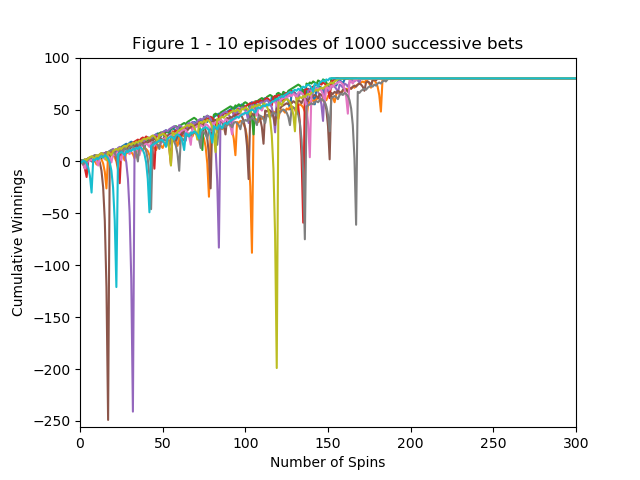
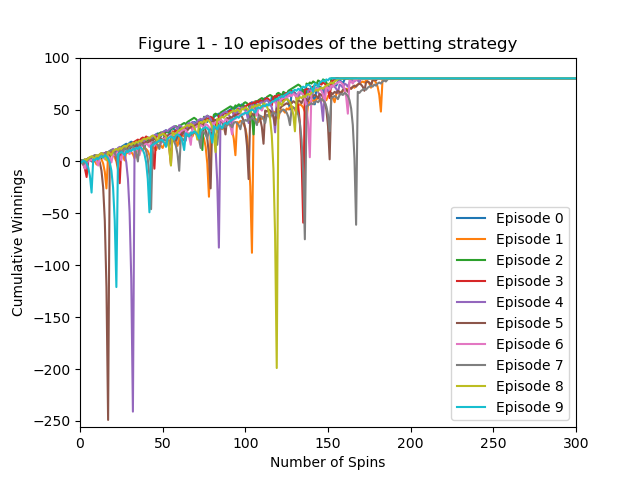
First draft of code (added = Generates figure 2,3)

Changed region(s): [[0.7188, 0.4375, 0.9062, 0.875], [0.1875, 0.0625, 0.8125, 0.125], [0.7188, 0.8438, 0.75, 0.875]]

diff --git a/martingale/martingale.py b/martingale/martingale.py
@@ -71,11 +71,14 @@ def test_code():
     #betting_strategy(win_prob)
     print(win_prob)
     figure1(win_prob)
+    figure3(win_prob)
+
   		  	   		  		 			  		 			     			  	 
 
 def betting_strategy(win_prob):
     episode_winnings = 0
-    episode_array = np.full((1000),80)
+    #Structuring the NumPy Array hint:: Each episode consists of 1000 spins plus the initial value of 0 in the first column (1001 columns in total)
+    episode_array = np.full((1001),80)
     #print(episode_array, episode_array.shape, episode_array.size)
     bet_number = 0
 
@@ -84,8 +87,7 @@ def betting_strategy(win_prob):
         won = False
         bet_amount = 1
         while not won:
-            #wager on black?
-            if bet_number >= 1000:
+            if bet_number >= 1001:
                 print(episode_array)
                 return episode_array
             episode_array[bet_number] = episode_winnings
@@ -107,17 +109,51 @@ def betting_strategy(win_prob):
     #if episode_winnings == 80:
         #print(episode_array[999], episode_array.shape , episode_array.size)
 
-
 def figure1(win_prob):
     for i in range(10):
         cur_episode = betting_strategy(win_prob)
-        plt.plot(cur_episode)
+        plt.plot(cur_episode, label='Episode %s' % i)
 
-    plt.title("Figure 1 - 10 episodes of 1000 successive bets")
-    plt.axis([0, 300, -256, 100])
-    plt.xlabel("Number of Spins")
-    plt.ylabel("Cumulative Winnings")
-    plt.savefig("figure1.png")
+    plotting_utility_function("Figure 1 - 10 episodes of the betting strategy", [0, 300, -256, 100], "Number of Spins", "Cumulative Winnings", "figure1.png")
+
+def figure2(win_prob):
+    # Rows is number of episodes; columns is number of spins per episode (1000) + initial value in 1st column
+    cumulative_array = np.zeros((1000,1001))
+
+    for i in range(1000):
+        cur_episode = betting_strategy(win_prob)
+        cumulative_array[i] = cur_episode
+
+    mean_array = np.mean(cumulative_array, axis = 0)
+    std_dev_array = np.std(cumulative_array, axis = 0)
+    mean_plus_std = mean_array + std_dev_array
+    mean_minus_std = mean_array - std_dev_array
+
+    plt.plot(mean_array, label="Mean")
+    plt.plot(mean_plus_std, label="Mean + Standard Deviation")
+    plt.plot(mean_minus_std, label="Mean - Standard Deviation")
+
+    plotting_utility_function("Figure 2 - Mean & Standard Deviations for 1000 episodes", [0, 300, -256, 100], "Number of Spins", "Cumulative Winnings", "figure2.png")
+    return cumulative_array,std_dev_array
+def figure3(win_prob):
+    same_cumulative_array, same_std_dev_array = figure2(win_prob)
+    median_array = np.median(same_cumulative_array, axis=0)
+    median_plus_std = median_array + same_std_dev_array
+    median_minus_std = median_array - same_std_dev_array
+
+    plt.plot(median_array, label="Median")
+    plt.plot(median_plus_std, label="Median + Standard Deviation")
+    plt.plot(median_minus_std, label="Median - Standard Deviation")
+    plotting_utility_function("Figure 3 - Median & Standard Deviations for 1000 episodes", [0, 300, -256, 100], "Number of Spins", "Cumulative Winnings", "figure3.png")
+
+def plotting_utility_function(title,axes,xlabel,ylabel,fig_name):
+
+    plt.title(title)
+    plt.axis(axes)
+    plt.xlabel(xlabel)
+    plt.ylabel(ylabel)
+    plt.legend()
+    plt.savefig(fig_name)
     plt.clf()
 
 if __name__ == "__main__":  		  	   		  		 			  		 			     			  	 
